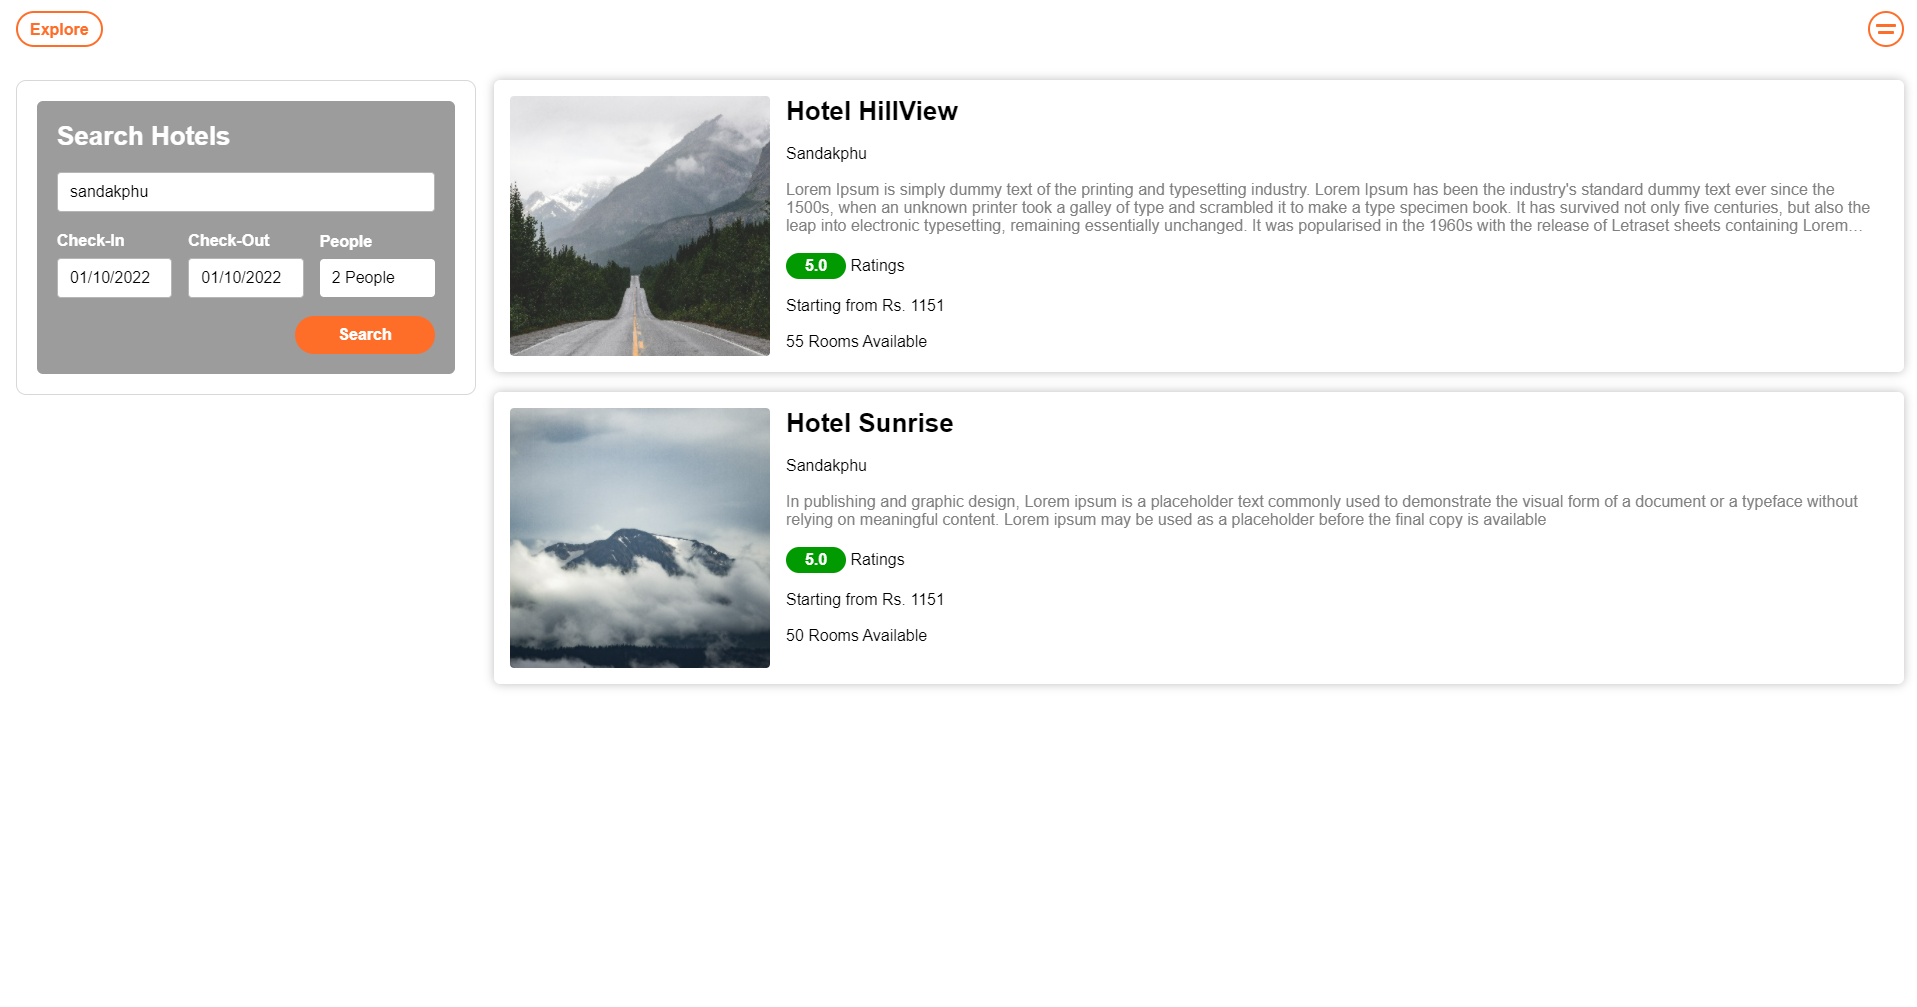
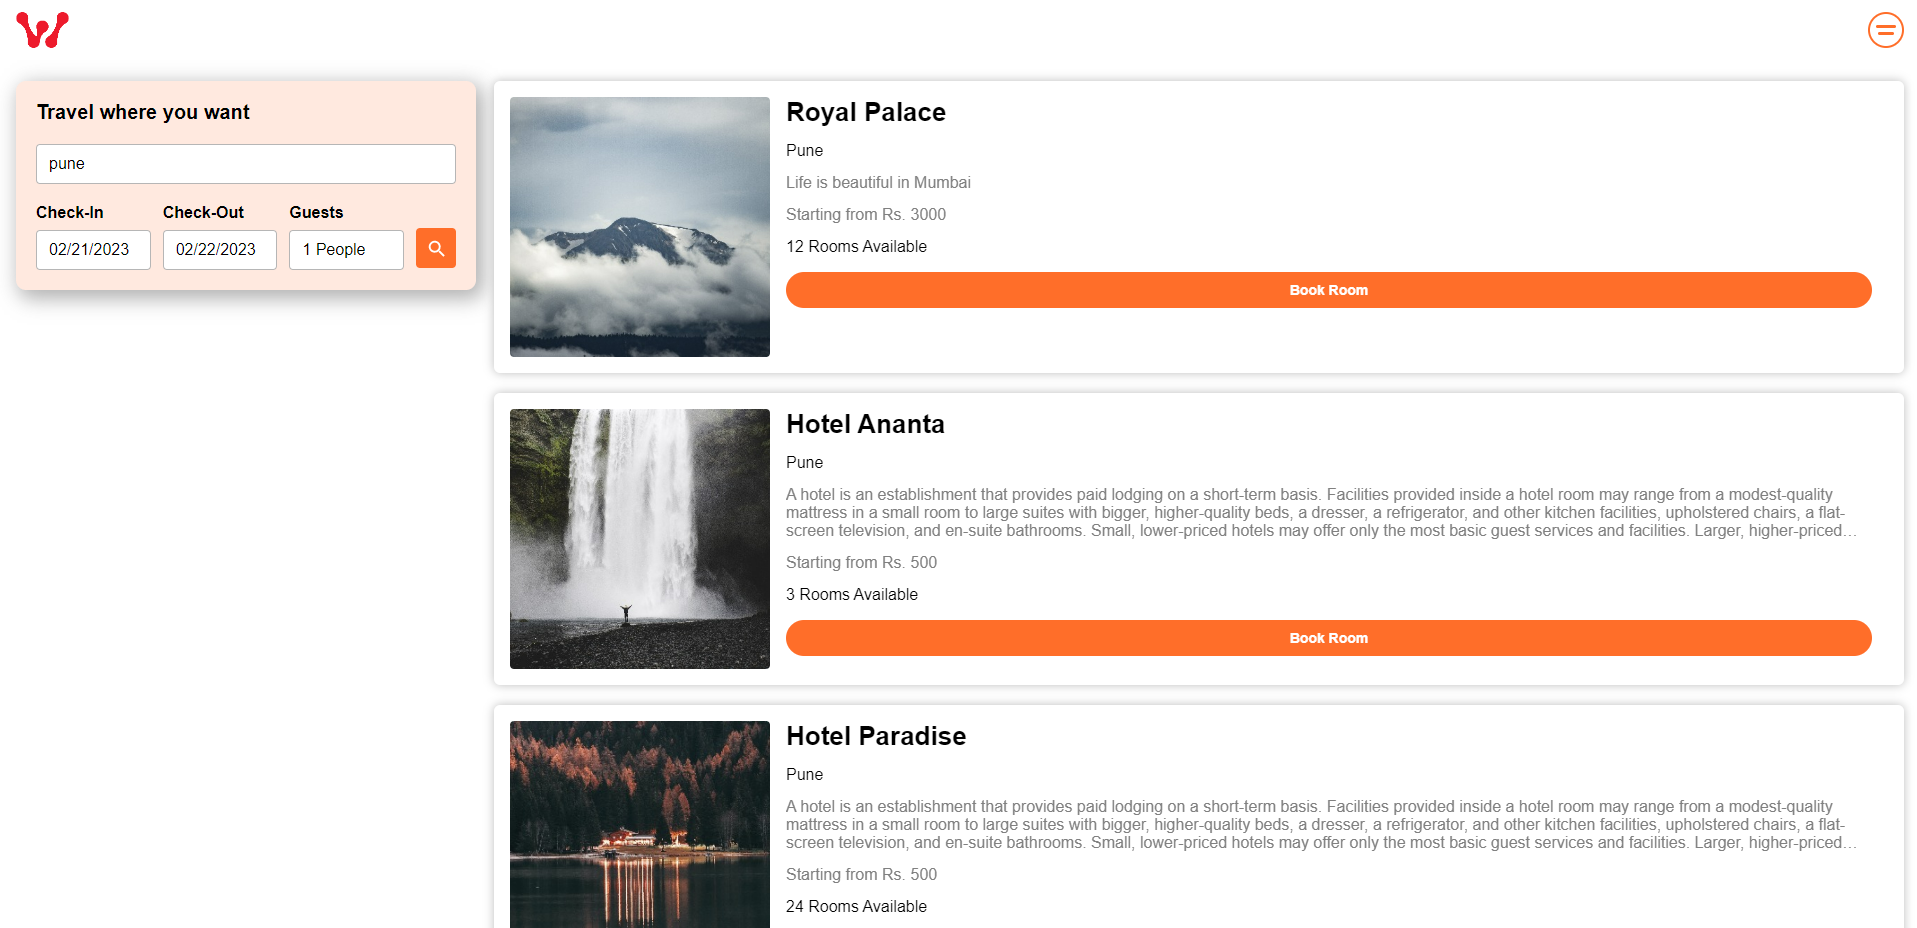
Demo changes

Changed region(s): [[0.0, 0.0, 0.9849, 1.0], [0.9541, 0.0, 1.0, 0.0625]]

diff --git a/client/src/pages/Explore/Card.js b/client/src/pages/Explore/Card.js
@@ -29,6 +29,7 @@ const HotelDetails = styled.div`
     padding: 0 16px;
     border-radius: 6px;
     transition: 0.5s;
+    width: 100%;
 
     @media(max-width: 600px) {
         margin-top: 16px;
@@ -41,10 +42,25 @@ const Card = (props) => {
     const { data, params } = props
     const hotel = data.hotel
 
+    console.log(data)
+
     const searchData = {
         from: params.from,
         to: params.to,
         people: params.people,
+    }
+
+    const getStartingPrice = () => {
+        if (hotel.rooms.length === 0) return "Starting Price - N/A"
+        let prices = hotel.rooms.map(room => room.price)
+        let minPrice = Math.min(...prices)
+        return `Starting from Rs. ${minPrice}`;
+    }
+
+    const getAvlRoomCount = () => {
+        if (hotel.rooms.length === 0) return "No room is available right now";
+        let roomsCount = hotel.rooms.map(room => room.roomNumbers.length).reduce((cur, res) => cur + res)
+        return roomsCount
     }
 
     return (
@@ -55,14 +71,14 @@ const Card = (props) => {
                 <Text className="clip">{hotel.name}</Text>
                 <Text className="small">{hotel.location}</Text>
                 <Text className="small clamp">{hotel.description}</Text>
-                <Text className="small"> <span className="highlight">5.0</span></Text>
-                <Text className="small" style={{ marginBottom: 0 }}>{data.rooms} Rooms Available</Text>
-                <FormButton 
-                style={{
-                    width: '100%',
-                    marginTop: '16px'
-                }}
-                onClick={() => navigate(`/hotel/${hotel.id}`, { state: searchData })}>Book Room</FormButton>
+                <Text className="small clamp">{getStartingPrice()}</Text>
+                <Text className="small" style={{ marginBottom: 0 }}>{getAvlRoomCount()} Rooms Available</Text>
+                <FormButton
+                    style={{
+                        width: '100%',
+                        marginTop: '16px'
+                    }}
+                    onClick={() => navigate(`/hotel/${hotel.id}`, { state: searchData })}>Book Room</FormButton>
             </HotelDetails>
         </CardContainer>
     )

diff --git a/client/src/pages/HotelPage/HotelDetails.js b/client/src/pages/HotelPage/HotelDetails.js
@@ -19,6 +19,16 @@ export const ManagerView = (props) => {
 
     const rooms = hotel.rooms
 
+    const getPriceRange = () => {
+        if(hotel.rooms.length === 0) return "Price - N/A"
+        let prices = hotel.rooms.map(room => room.price)
+        let maxPrice = Math.max(...prices)
+        let minPrice = Math.min(...prices)
+
+        if(maxPrice === minPrice) return `${maxPrice}/-`;
+        return `${minPrice} - ${maxPrice}/-`;
+    }
+
     return (
         <div>
             <div style={{ display: 'flex', width: '100%' }}>
@@ -26,7 +36,7 @@ export const ManagerView = (props) => {
                 <Details style={{ width: '40%', marginLeft: '20px' }}>
                     <Text className="small">Location: <span>{hotel.location}</span></Text>
                     <Text className="small">Ratings: <span className="highlight">{ratings}</span></Text>
-                    <Text className="small">Price: <span>1500-5960/-</span></Text>
+                    <Text className="small">Price: <span>{getPriceRange()}</span></Text>
                 </Details>
             </div>
             <Details style={{ marginTop: '20px' }}>
@@ -53,7 +63,7 @@ export const ManagerView = (props) => {
 }
 
 
-const HotelDetails = (props) => {
+export const HotelDetails = (props) => {
 
     const { hotel, params } = props
     let total = Object.values(params.people).reduce((a, b) => a + b)
@@ -69,7 +79,7 @@ const HotelDetails = (props) => {
     // const ratings = !hotel.ratings ? 0.00 : hotel.ratings
 
     const getPriceRange = () => {
-        console.log(hotel)
+        if(hotel.rooms.length === 0) return "Price - N/A"
         let prices = hotel.rooms.map(room => room.price)
         let maxPrice = Math.max(...prices)
         let minPrice = Math.min(...prices)
@@ -114,5 +124,3 @@ const HotelDetails = (props) => {
         </div>
     )
 }
-
-export default HotelDetails

diff --git a/client/src/pages/HotelPage/Hotel.js b/client/src/pages/HotelPage/Hotel.js
@@ -6,7 +6,7 @@ import { PageContainer } from "../../components/GlobalStyles/PageStyles";
 import PageLoader from "../../components/Loaders/PageLoader";
 import { GET_HOTEL_BY_ID } from "../../graphql/queries/hotelQueries";
 import { GlobalContext } from "../../utils/Context";
-import HotelDetails, { ManagerView } from "./HotelDetails";
+import { HotelDetails, ManagerView } from "./HotelDetails";
 
 
 const Hotel = () => {

diff --git a/client/src/graphql/queries/hotelQueries.js b/client/src/graphql/queries/hotelQueries.js
@@ -115,6 +115,7 @@ query($location: String!, $from: Date!, $to: Date!, $occupancy: Int!){
         price
         addedOn
         ratings
+        roomNumbers
         hotel{
           id
           name
